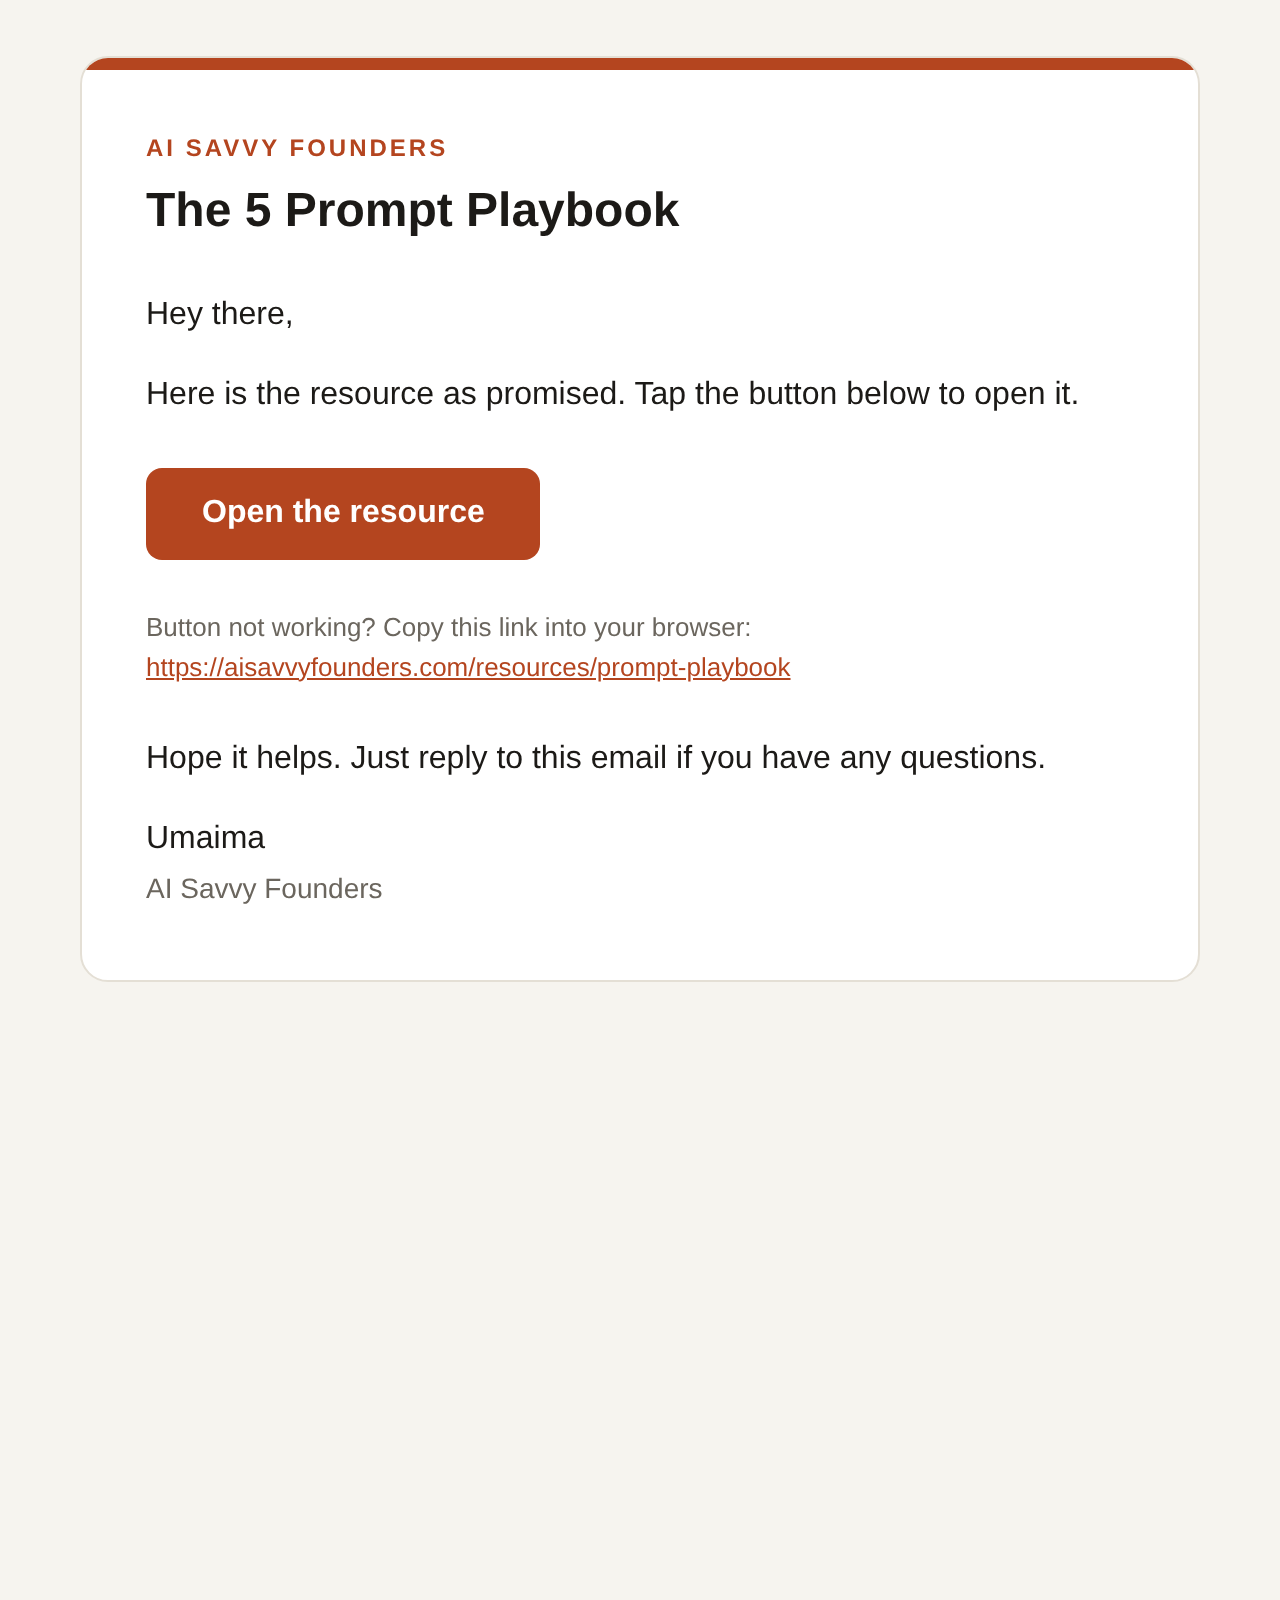
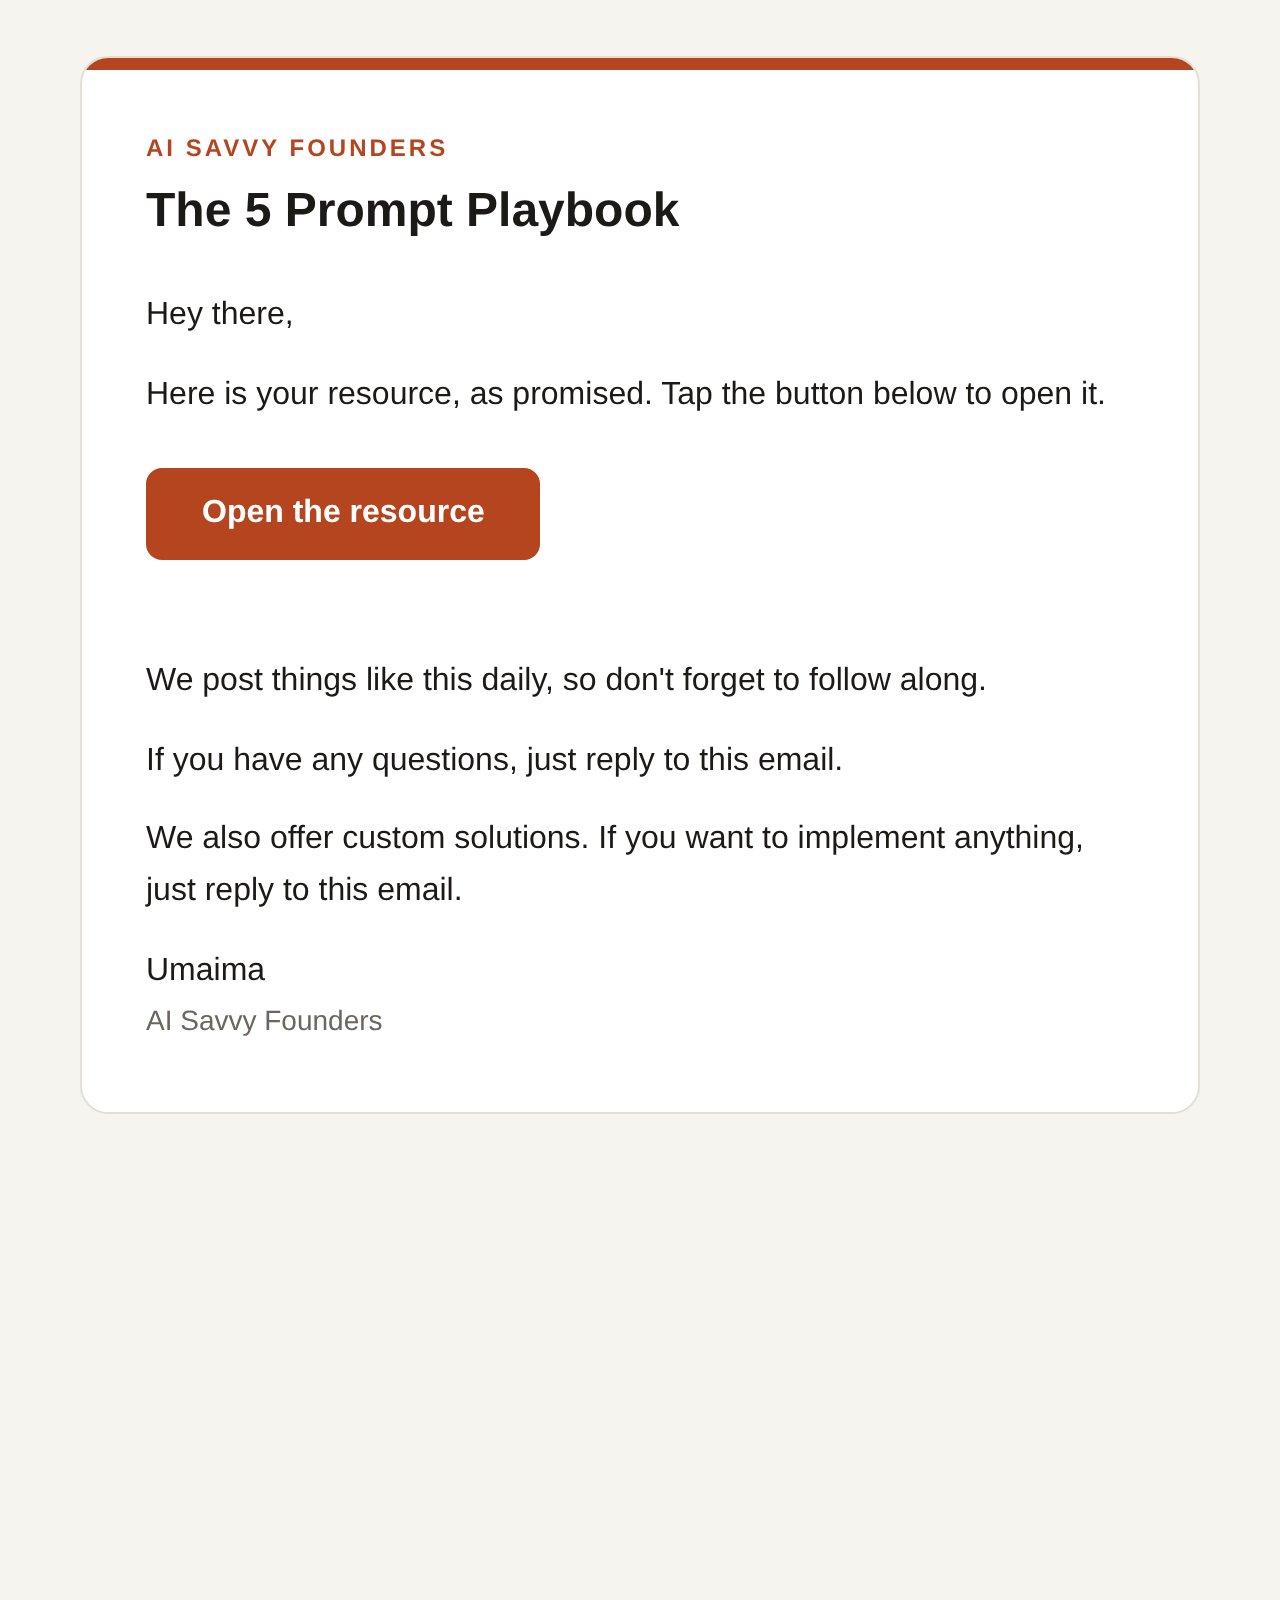
Update email copy: follow line, custom solutions line, remove backup link
Claude-Session: https://claude.ai/code/session_01GNtKZBMB2dRwmVaVoFCEqe

diff --git a/resource-sender-next/app/email-template.js b/resource-sender-next/app/email-template.js
@@ -3,10 +3,12 @@ export const EMAIL = {
   brand: "AI Savvy Founders",
   signOff: "Umaima",
   greeting: "Hey there,",
-  intro: "Here is the resource as promised. Tap the button below to open it.",
-  introPlain: "Here is the resource as promised. Your link is below.",
+  intro: "Here is your resource, as promised. Tap the button below to open it.",
+  introPlain: "Here is your resource, as promised. Your link is below.",
   button: "Open the resource",
-  outro: "Hope it helps. Just reply to this email if you have any questions.",
+  follow: "We post things like this daily, so don't forget to follow along.",
+  questions: "If you have any questions, just reply to this email.",
+  custom: "We also offer custom solutions. If you want to implement anything, just reply to this email.",
   accent: "#b4451f", // button + top bar
   ink: "#1c1a17", // text
   paper: "#f6f4ef", // page background
@@ -27,7 +29,11 @@ export function buildEmail(link, resourceName) {
     "",
     `${resourceName}: ${link}`,
     "",
-    e.outro,
+    e.follow,
+    "",
+    e.questions,
+    "",
+    e.custom,
     "",
     `${e.signOff}`,
     e.brand,
@@ -53,12 +59,10 @@ export function buildEmail(link, resourceName) {
     <tr><td align="left" style="padding:24px 32px;">
       <a href="${url}" style="display:inline-block;background:${e.accent};color:#ffffff;font-family:Arial,Helvetica,sans-serif;font-size:16px;font-weight:700;text-decoration:none;padding:14px 28px;border-radius:8px;">${esc(e.button)}</a>
     </td></tr>
-    <tr><td style="padding:0 32px;font-family:Arial,Helvetica,sans-serif;font-size:13px;line-height:1.5;color:#6b665e;">
-      Button not working? Copy this link into your browser:<br>
-      <a href="${url}" style="color:${e.accent};word-break:break-all;">${url}</a>
-    </td></tr>
     <tr><td style="padding:24px 32px 32px;font-family:Arial,Helvetica,sans-serif;font-size:16px;line-height:1.6;color:${e.ink};">
-      <p style="margin:0 0 14px;">${esc(e.outro)}</p>
+      <p style="margin:0 0 14px;">${esc(e.follow)}</p>
+      <p style="margin:0 0 14px;">${esc(e.questions)}</p>
+      <p style="margin:0 0 14px;">${esc(e.custom)}</p>
       <p style="margin:0;">${esc(e.signOff)}<br><span style="color:#6b665e;font-size:14px;">${esc(e.brand)}</span></p>
     </td></tr>
   </table>

diff --git a/resource-sender-next/README.md b/resource-sender-next/README.md
@@ -27,4 +27,4 @@ Open http://localhost:3000
 3. Deploy, open the URL, bookmark it. The browser remembers your password.
 
 ## Change the email wording
-Edit the settings at the top of `app/email-template.js` (greeting, intro, button text, sign-off, colours).
+Edit the settings at the top of `app/email-template.js` (greeting, intro, button text, follow line, custom-solutions line, sign-off, colours).
